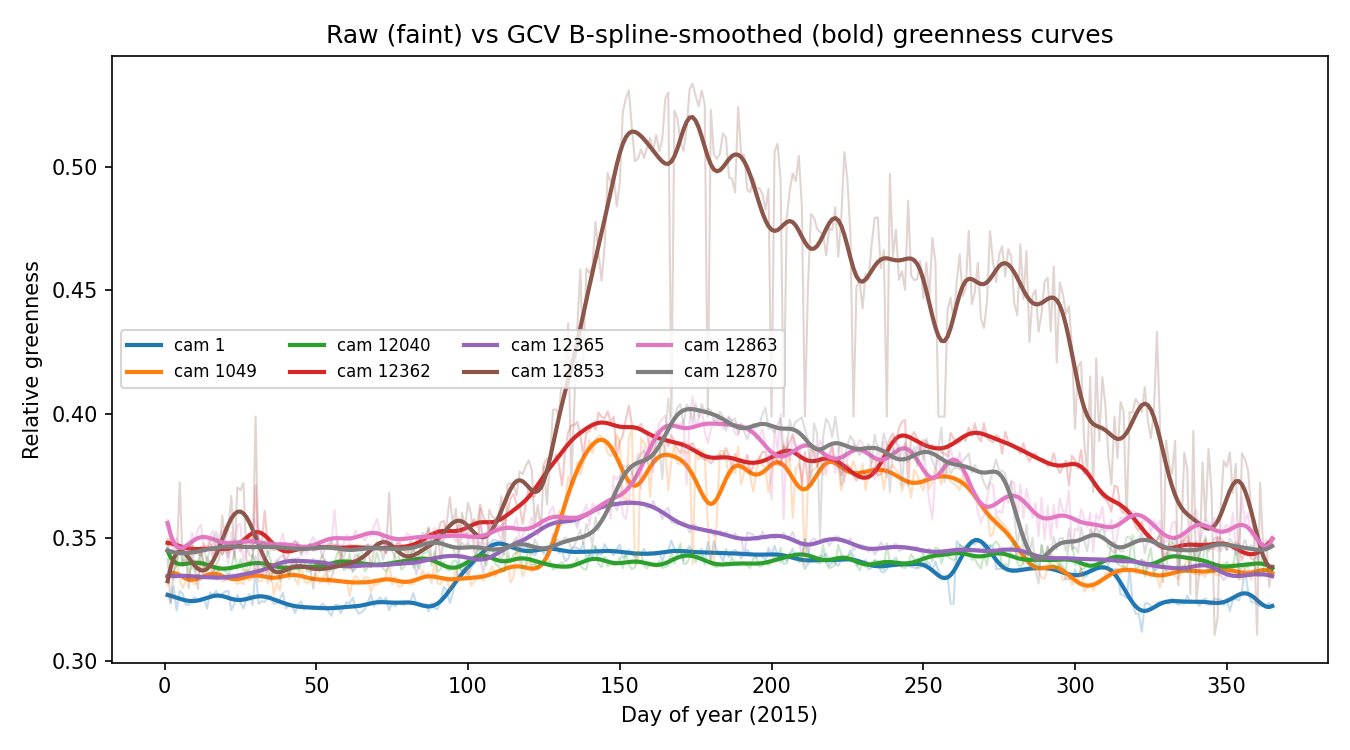
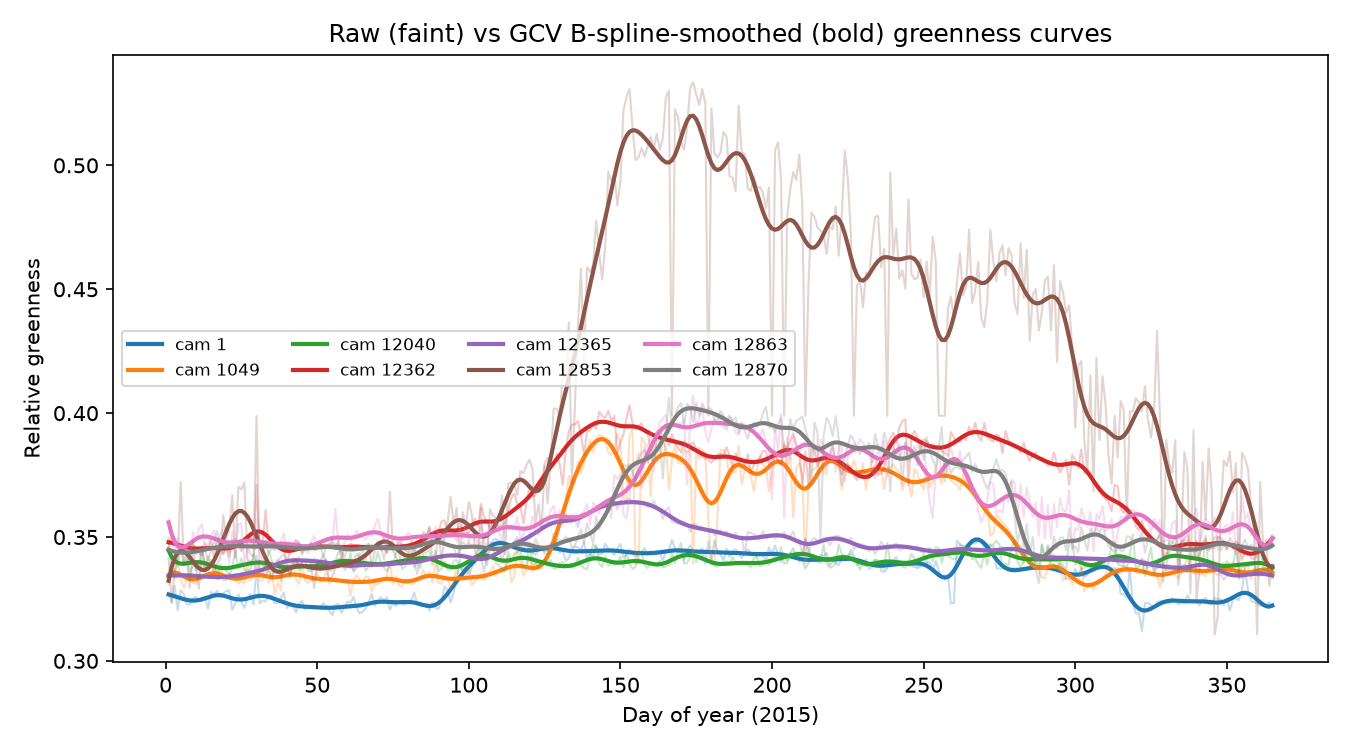
Final standard-repo audit fixes

diff --git a/src/greenness/data.py b/src/greenness/data.py
@@ -97,11 +97,10 @@ def build_dataset(
     ----------
     fill_missing:
         ``"median"`` fills remaining NaNs per-camera with that camera's
-        median (matches the quick-and-dirty imputation used for the raw
-        exploratory plots in the R scripts). ``"ffill"`` does a forward-fill
-        (Last Observation Carried Forward), matching the paper's stated
-        missing-value handling. ``None`` leaves NaNs in place (needed if you
-        want to do the imputation yourself, e.g. before smoothing).
+        median. ``"ffill"`` does a forward-fill (Last Observation Carried
+        Forward), matching the paper's stated missing-value handling.
+        ``None`` leaves NaNs in place (needed if you want to do the
+        imputation yourself, e.g. before smoothing).
 
     Returns
     -------
